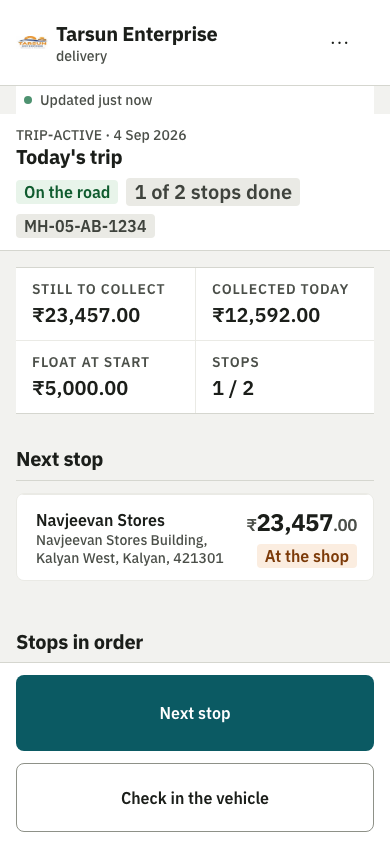
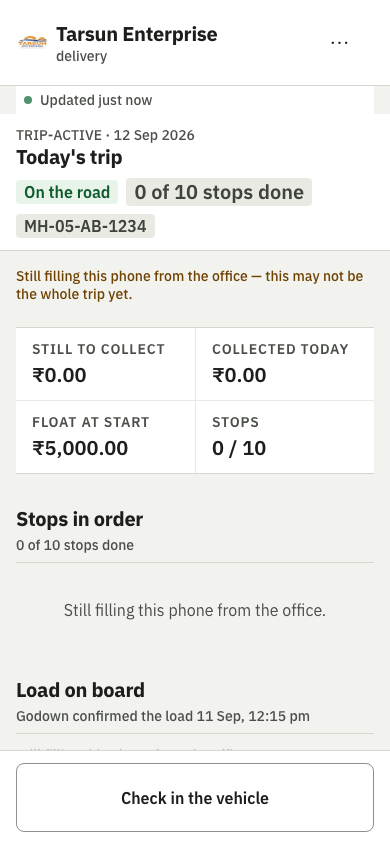
QA Phase 0 complete: dos_qa seeded from the realistic seed, sign-ins re-verified, STATE points at Phase 1 (Owner)

diff --git a/QA/ENV.md b/QA/ENV.md
@@ -74,6 +74,10 @@ Sign-in form selectors (identical in all seven apps): web `data-testid` = `sign-
 8. **Expo Go shares one sandbox across all seven apps on the simulator.** After signing in to the owner app, opening the manager app in Expo Go came up with the OWNER's session (manager shell, "manager-service does not serve the owner role") — the refresh token lives in the keychain, which Expo Go does not scope per project. A dev build or a real device gives each app its own sandbox, so this is an environment artefact, not a product defect; `ios-login.mjs` resets the simulator keychain between apps (`xcrun simctl keychain <udid> reset`). Also: XCUITest types into whichever field has focus — click a field before sending its value — and iOS shows a "Save Password?" sheet after a successful sign-in that must be dismissed.
 9. **The owner "Today" numbers are a worker rollup.** With the worker down the dashboard showed "as of 9:26 pm" at 10:35 pm (stale but labelled); it caught up once the worker started. Phase 1 (Owner) should judge whether "as of" is honest enough.
 
+## 6a. QA database since 2026-09-12: `dos_qa`
+
+The new realistic seed (`pnpm db:seed`, commit 472a5df) refuses to run over a database seeded by the old code, and the tool guard would not let QA drop `dos`, so QA created **`dos_qa`** (createdb → `pnpm db:migrate` → `pnpm db:seed`, ~25 s) and runs every service against it: `QA/tools/start-services.sh` exports `DATABASE_URL=postgres://dos:dos@127.0.0.1:5439/dos_qa` (override by setting DATABASE_URL first). `backend/.env` still points at `dos`; anything the founder starts by hand hits the OLD data unless they export the same variable or replace `dos` themselves (`dropdb --force dos && createdb dos && pnpm db:migrate && pnpm db:seed`). Seeded on 2026-09-12: 3 tenants, 52 users, 174 variants, 127 shops, 1 544 orders, 1 501 bills, 1 170 receipts, 175 trips; `QA/tools/seed/verify-seed.sh dos_qa` → 206/206. All eight web sign-ins re-verified on it (0 console errors, 0 failed requests).
+
 ## 6. The database — read this before any destructive step (Charter A.3)
 
 **2026-09-08 (founder, in chat: "drop it, create new seed, more realistic one"):** the polluted `dos` was dropped after stopping the eight services and the worker (`dropdb dos`), recreated empty, migrated (43 migrations) and base-seeded (`pnpm db:seed`: 3 tenants, 42 users, 103 retailers, 17 products / 29 variants, 234 orders, 243 invoices, 251 receipts, 52 trips, 297 ledger rows). A realistic rebuild of `seed-demo` is in progress (spec: `QA/tools/seed/REALISTIC-SEED-SPEC.md`). Five stray `dos_seedtest_*` databases from the seed test remain (small). **`pnpm test` in backend re-pollutes `dos`** — DB-backed specs create tenants/users and never clean up; until the specs get their own database this is a hygiene finding for Phase 3/6. Run backend tests only against a scratch `DATABASE_URL`.

diff --git a/QA/STATE.md b/QA/STATE.md
@@ -1,12 +1,12 @@
 Stage: 1
-Current phase: 0 — Understand the system & get it running
-Status: in progress (closing) — web 8/8 signed in, iOS headless input proven, Android owner+sales proven, remaining Android apps re-running with the fixed driver; realistic seed being built (workflow wf_aed556b2-d40)
+Current phase: 1 — Real-user walkthrough
+Status: in progress
 Roles walked: none
 Roles remaining: Owner, Manager, Warehouse, Delivery, Sales Rep, Retailer, Admin
-Completed phases: none
+Completed phases: 0
 Open P0: none
 Open P1: none
-Approved & unimplemented: realistic demo seed (founder 2026-09-08: "drop it, create new seed, more realistic one") — in progress in backend/libs/database/src/seed-demo
-Blocked: none (iOS input unblocked 2026-09-08 via Appium/WDA + iOS 18.3.1 platform)
-Next action: finish Android sign-ins (manager, warehouse, delivery, retailer, admin), land + verify the realistic seed, re-seed dos, commit seed separately, then Phase 1 — Owner walkthrough with the six-place money trace
-Last updated: 2026-09-08 06:40 IST
+Approved & unimplemented: none
+Blocked: none. iOS input works (Appium/WDA). Founder wants Fable tokens spent on testing, not fixtures — no more seed work.
+Next action: walk the Owner role (web first, then Pixel 7) on dos_qa; do the six-place money trace on one delivered order. Services must run with DATABASE_URL=…/dos_qa (QA/tools/start-services.sh does this); the old `dos` still holds the previous seed — founder may drop it.
+Last updated: 2026-09-12
